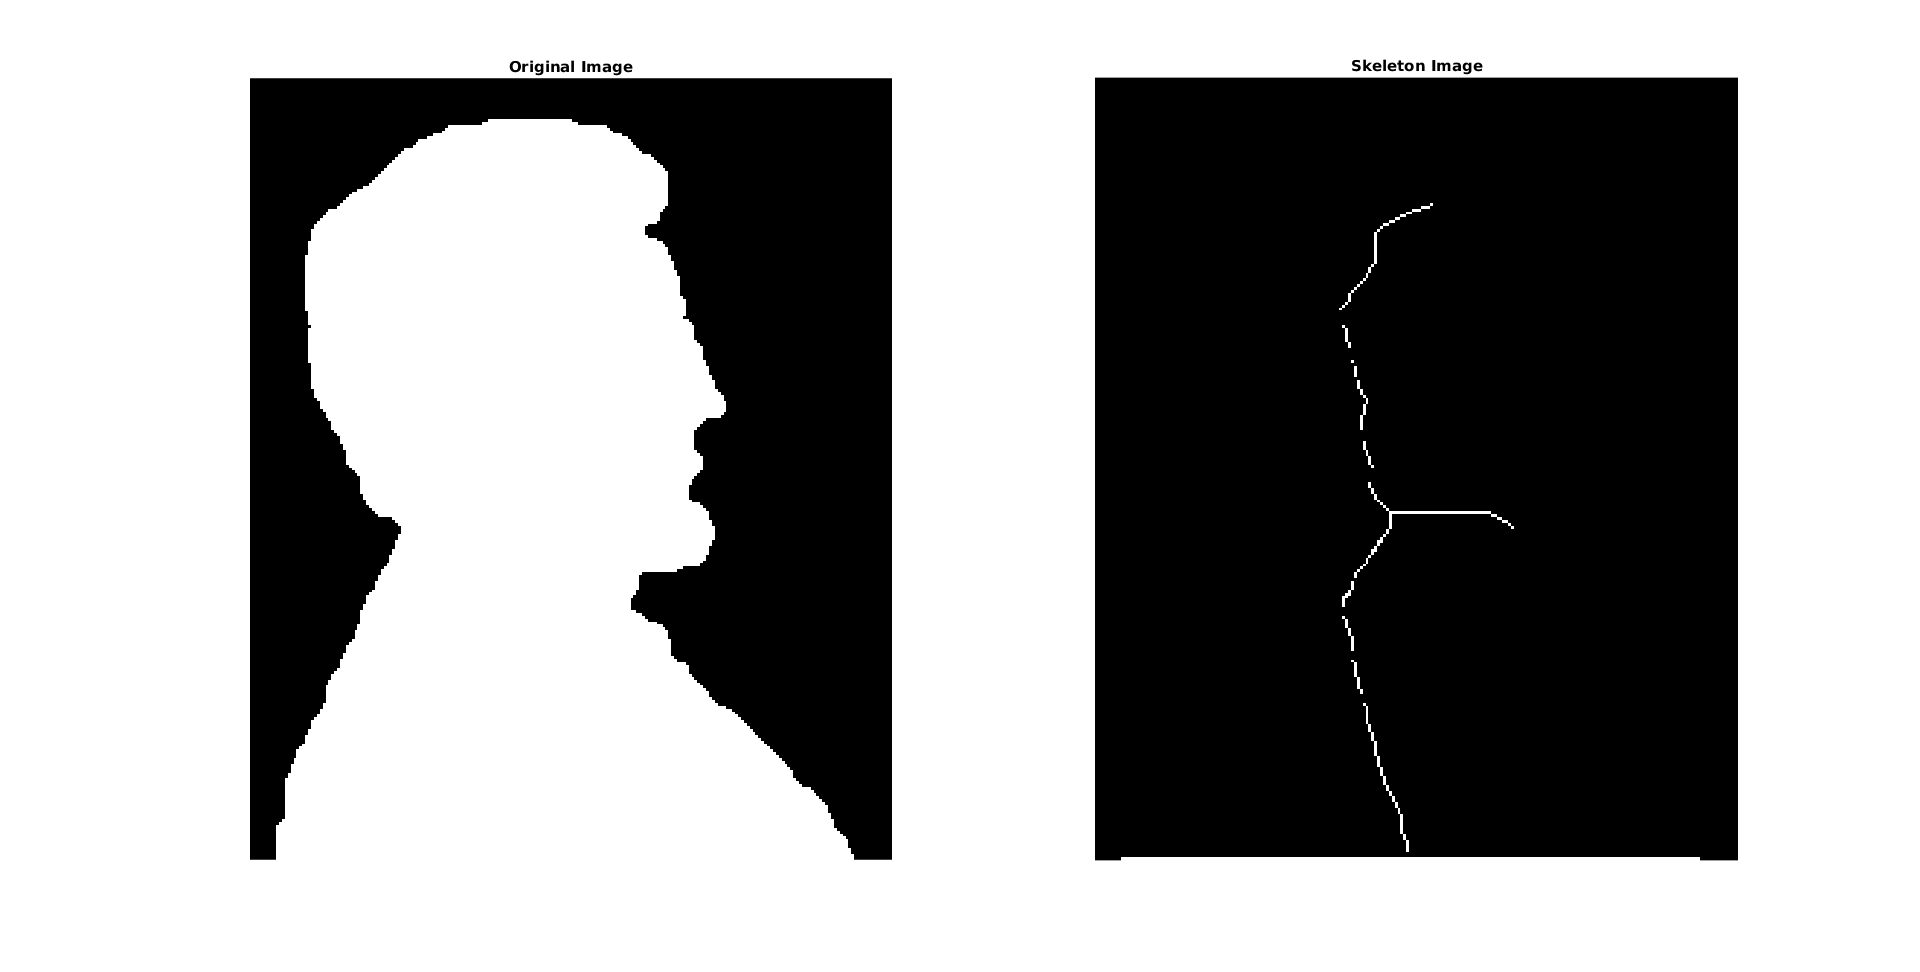
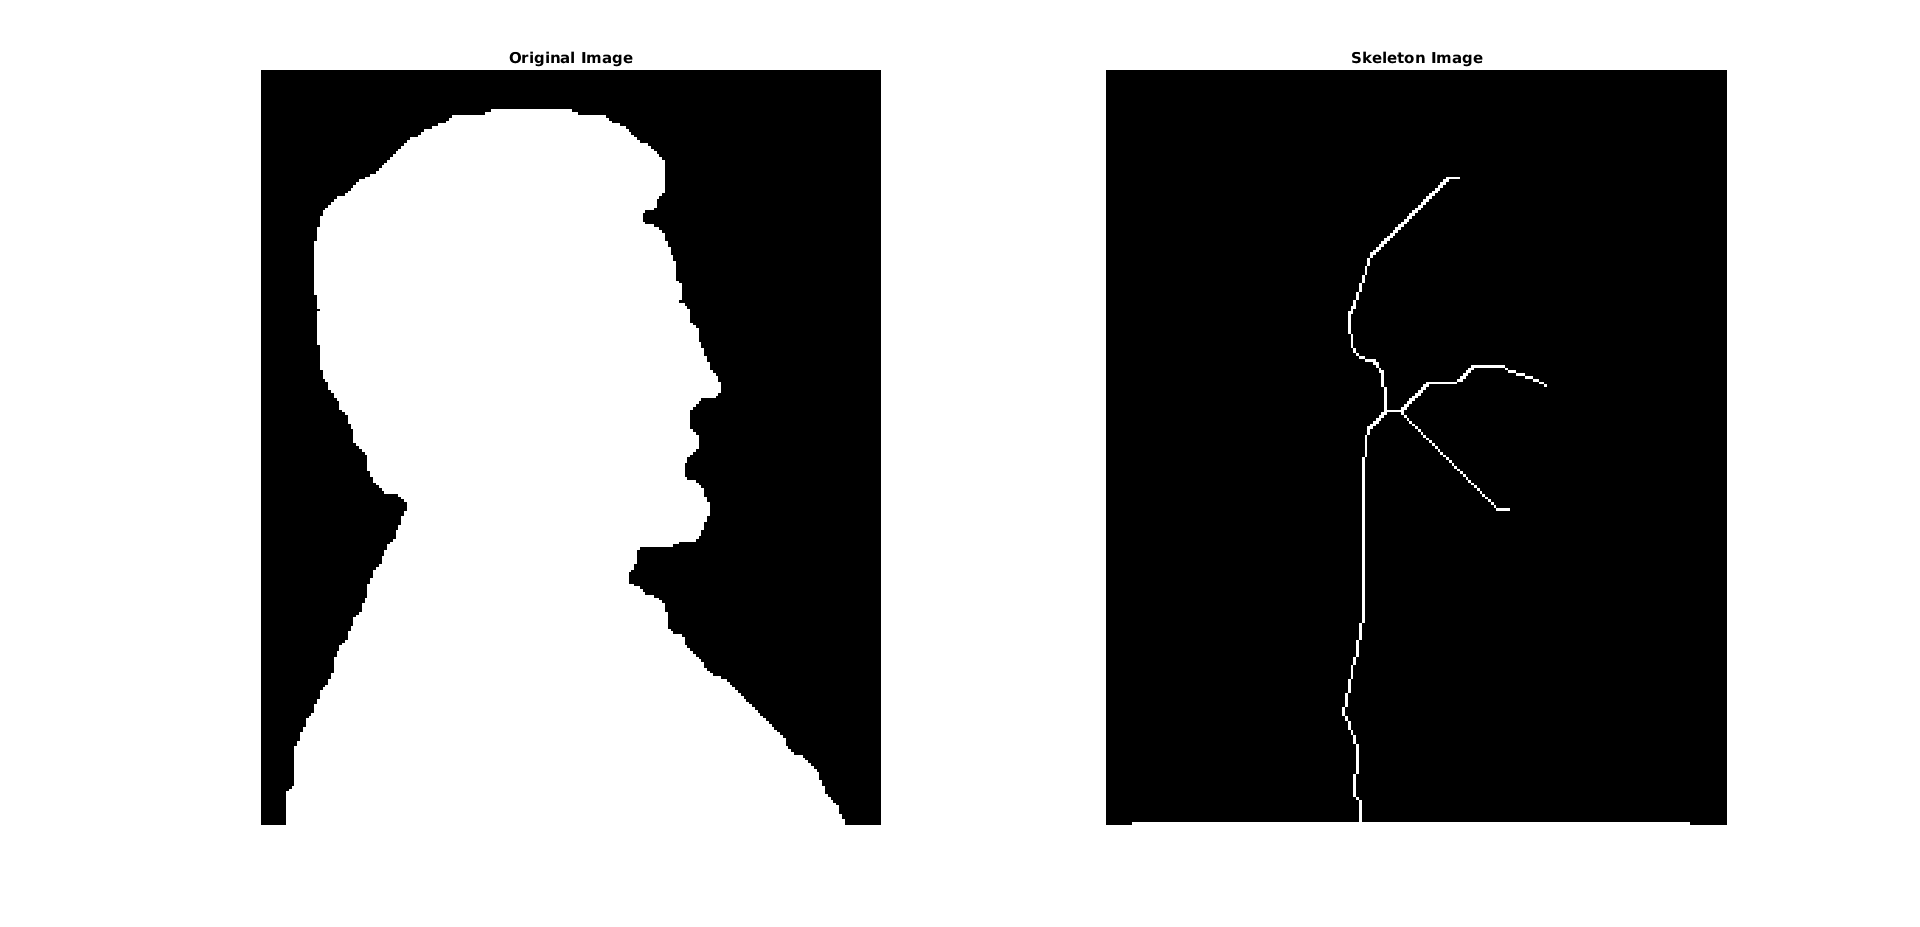
Fixed line break bug.

diff --git a/lab01b/skeletonise.m b/lab01b/skeletonise.m
@@ -10,9 +10,9 @@ function [original, skeleton, num_iterations, time] = skeletonise(filename);
     clc;
 
     original = im2double(imread(filename));
-    size(original)
     imshow(original);
-    %Convert image to black and white (input validation)
+    
+    % Convert image to black and white (input validation)
     original = im2bw(original, 1.7*graythresh(original));
 
     [rows, cols] = size(original);
@@ -37,17 +37,16 @@ function [original, skeleton, num_iterations, time] = skeletonise(filename);
     num_iterations = 0;
     
     while 1;
-        %Update the intermediate buffer with the latest changes to skeleton
-        intermediate = skeleton;
-
-        % We only need to apply this algorithm to the border points (a black
-        % pixel with al least on white neighbour pixel)
-        border = bwperim(intermediate);
-
-
         % Two passes of the below algorithm are applied, each with different c
         % and d values.
         for stage = 0 : 1;
+            % Update the intermediate buffer with the latest changes to skeleton
+            intermediate = skeleton;
+
+            % We only need to apply this algorithm to the border points (a black
+            % pixel with al least on white neighbour pixel)
+            border = bwperim(intermediate);
+
             for x = 2 : rows - 1;
                 for y = 2 : cols - 1; % for each inner pixel
                     % Optimisation: Only check border pixels

diff --git a/lab01b/problem_1.m b/lab01b/problem_1.m
@@ -8,7 +8,9 @@ images = { ...
     'images/mapleleaf.tif', ...
     'images/lincoln_from_penny.tif', ...
     'images/square.tif', ...
-    'images/triangle.tif' ...
+    'images/triangle.tif', ...
+    'images/bone.tif', ...
+    'images/noisy_stroke.tif' ...
 };
 
 for idx = 1:numel(images)
